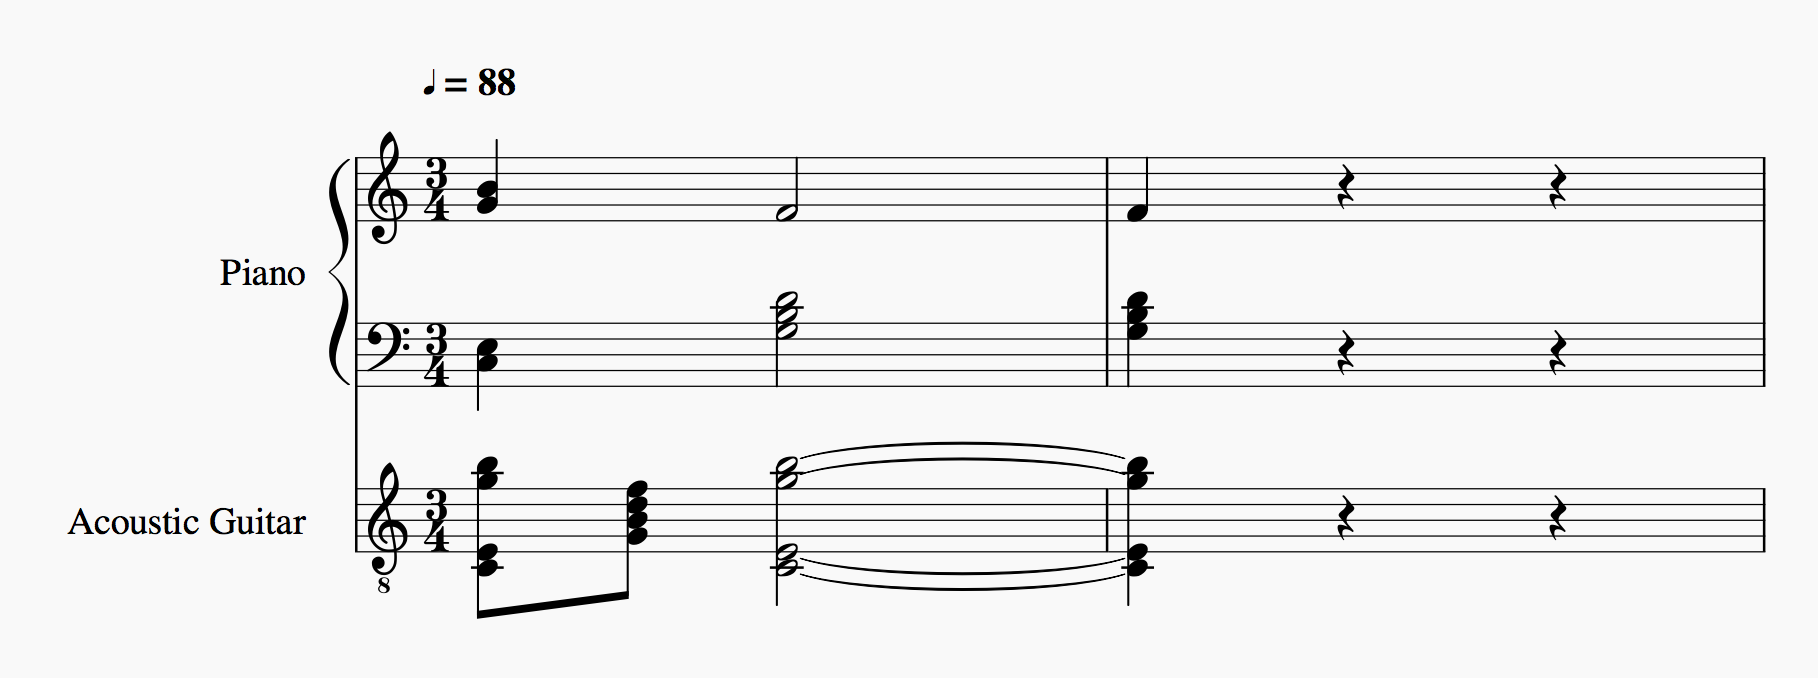
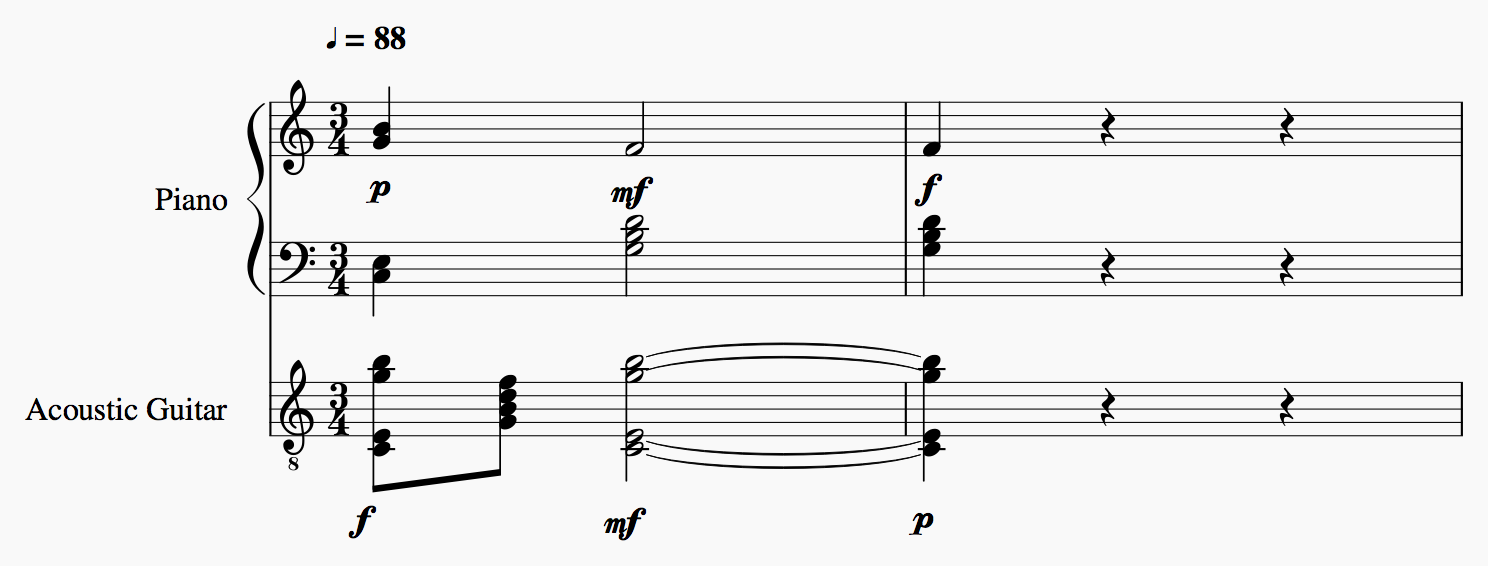
Updated music library

diff --git a/swara-music/src/main/java/com/swara/music/io/MidiSongReader.java b/swara-music/src/main/java/com/swara/music/io/MidiSongReader.java
@@ -5,9 +5,7 @@ import java.util.Arrays;
 import java.util.HashMap;
 import java.util.List;
 import java.util.Map;
-import java.util.Set;
 import java.util.TreeMap;
-import java.util.TreeSet;
 import java.util.function.Predicate;
 import java.util.stream.Collectors;
 import java.util.stream.IntStream;
@@ -104,7 +102,7 @@ public class MidiSongReader implements SongReader {
                 .collect(Collectors.groupingBy(i -> ((ShortMessage) i.getMessage()).getChannel()))
                 .forEach((channel, list) -> {
                     final Phrase.Builder phrase = new Phrase.Builder();
-                    final Set<Note> notes = new TreeSet<>();
+                    final Map<Integer, ShortMessage> notes = new HashMap<>();
 
                     // Group note on and note off events by tick.
                     final TreeMap<Long, List<MidiEvent>> ticks = list.stream().collect(
@@ -112,31 +110,30 @@ public class MidiSongReader implements SongReader {
                     );
 
                     ticks.forEach((tick, group) -> {
+                        // Articulate all notes (if any) in the current chord.
                         final Long last = ticks.lowerKey(tick);
                         final long diff = tick - (last == null ? start : last);
 
                         if (diff > 0) {
-                            // Articulate all notes (if any) in the current chord.
                             phrase.withChord(new Chord.Builder()
                                 .withDuration(new Fraction(diff / (4.0 * sequence.getResolution())))
-                                .withNotes(notes)
-                                .build()
-                            );
+                                .withNotes(notes.values().stream()
+                                    .map(i -> new Note.Builder()
+                                        .withPitch(i.getData1() % 12)
+                                        .withOctave(i.getData1() / 12)
+                                        .build())
+                                    .collect(Collectors.toSet()))
+                                .withVolume((int) notes.values().stream()
+                                    .mapToInt(ShortMessage::getData2)
+                                    .average()
+                                    .orElse(0))
+                                .build());
                         }
 
+                        // Add all new events and remove all old events.
                         for (MidiEvent event : group) {
-                            // Construct a note from a MIDI note event.
                             final ShortMessage msg = (ShortMessage) event.getMessage();
-                            final Note note = new Note.Builder()
-                                .withPitch(msg.getData1() % 12)
-                                .withOctave(msg.getData1() / 12)
-                                .withVolume(msg.getData2())
-                                .build();
-
-                            // If the note does not currently exist, then add it to the active set.
-                            if (!notes.remove(note)) {
-                                notes.add(note);
-                            }
+                            notes.merge(msg.getData1(), msg, (v1, v2) -> null);
                         }
                     });
 

diff --git a/swara-music/src/main/java/com/swara/music/data/Chord.java b/swara-music/src/main/java/com/swara/music/data/Chord.java
@@ -20,10 +20,12 @@ public class Chord {
 
     private final Set<Note> notes;
     private final Fraction duration;
+    private final int volume;
 
     private Chord(Builder builder) {
         this.notes = builder.notes;
         this.duration = builder.duration;
+        this.volume = builder.volume;
     }
 
     /**
@@ -46,6 +48,15 @@ public class Chord {
     }
 
     /**
+     * Returns the volume of the note. Volume is synonymous with MIDI velocity. The volume is
+     * encoded as a number on the interval [0, 128), in which 0 represents silence.
+     */
+    @JsonGetter
+    public int volume() {
+        return this.volume;
+    }
+
+    /**
      * Constructs a {@link Chord} using a Fluent-style builder pattern. By default, the builder will
      * construct a quarter-rest.
      */
@@ -53,10 +64,12 @@ public class Chord {
 
         private Set<Note> notes;
         private Fraction duration;
+        private int volume;
 
         public Builder() {
             this.notes = new HashSet<>();
             this.duration = Fraction.ONE_QUARTER;
+            this.volume = 64;
         }
 
         public Builder withNote(Note note) {
@@ -78,6 +91,13 @@ public class Chord {
             Preconditions.checkNotNull(duration);
             Preconditions.checkArgument(duration.compareTo(Fraction.ZERO) > 0);
             this.duration = duration;
+            return this;
+        }
+
+        public Builder withVolume(int volume) {
+            // The volume must be on the interval [0, 128).
+            Preconditions.checkArgument(volume >= 0 && volume < 128);
+            this.volume = volume;
             return this;
         }
 

diff --git a/swara-music/src/main/java/com/swara/music/data/Note.java b/swara-music/src/main/java/com/swara/music/data/Note.java
@@ -34,12 +34,10 @@ public class Note implements Comparable<Note> {
 
     private final int pitch;
     private final int octave;
-    private final int volume;
 
     private Note(Builder builder) {
         this.pitch = builder.pitch;
         this.octave = builder.octave;
-        this.volume = builder.volume;
     }
 
     /**
@@ -57,15 +55,6 @@ public class Note implements Comparable<Note> {
      */
     @JsonGetter
     public int octave() { return this.octave; }
-
-    /**
-     * Returns the volume of the note. Volume is synonymous with MIDI velocity. The volume is
-     * encoded as a number on the interval [0, 128), in which 0 represents silence.
-     */
-    @JsonGetter
-    public int volume() {
-        return this.volume;
-    }
 
     @Override
     public int compareTo(Note rhs) {
@@ -100,12 +89,10 @@ public class Note implements Comparable<Note> {
 
         private int pitch;
         private int octave;
-        private int volume;
 
         public Builder() {
             this.pitch = Note.C;
             this.octave = 5;
-            this.volume = 64;
         }
 
         public Builder withPitch(int pitch) {
@@ -119,13 +106,6 @@ public class Note implements Comparable<Note> {
             // The octave must be on the interval [0, 11).
             Preconditions.checkArgument(octave >= 0);
             this.octave = octave;
-            return this;
-        }
-
-        public Builder withVolume(int volume) {
-            // The volume must be on the interval [0, 128).
-            Preconditions.checkArgument(volume >= 0 && volume < 128);
-            this.volume = volume;
             return this;
         }
 

diff --git a/swara-music/src/main/java/com/swara/music/io/MidiSongWriter.java b/swara-music/src/main/java/com/swara/music/io/MidiSongWriter.java
@@ -78,7 +78,7 @@ public class MidiSongWriter implements SongWriter {
 
                         // Write the note on event.
                         track.add(new MidiEvent(new ShortMessage(
-                            ShortMessage.NOTE_ON, channel, key, note.volume()
+                            ShortMessage.NOTE_ON, channel, key, chord.volume()
                         ), tick));
 
                         // Write the note off event.

diff --git a/swara-music/README.md b/swara-music/README.md
@@ -31,10 +31,10 @@ final Tempo waltz = new Tempo.Builder()
 
 // C Major 7 Chord.
 final Chord.Builder cmaj7 = new Chord.Builder()
-    .withNote(new Note.Builder().withPitch(Note.C).withOctave(4).withVolume(80).build())
-    .withNote(new Note.Builder().withPitch(Note.E).withOctave(4).withVolume(60).build())
-    .withNote(new Note.Builder().withPitch(Note.G).withOctave(5).withVolume(80).build())
-    .withNote(new Note.Builder().withPitch(Note.B).withOctave(5).withVolume(75).build());
+    .withNote(new Note.Builder().withPitch(Note.C).withOctave(4).build())
+    .withNote(new Note.Builder().withPitch(Note.E).withOctave(4).build())
+    .withNote(new Note.Builder().withPitch(Note.G).withOctave(5).build())
+    .withNote(new Note.Builder().withPitch(Note.B).withOctave(5).build());
 
 // G Major 7 Chord.
 final Chord.Builder gmaj7 = new Chord.Builder()
@@ -45,17 +45,17 @@ final Chord.Builder gmaj7 = new Chord.Builder()
 
 // Piano Phrase.
 final Phrase piano = new Phrase.Builder()
-    .withChord(cmaj7.withDuration(new Fraction(1, 4)).build())
-    .withChord(gmaj7.withDuration(new Fraction(1, 2)).build())
-    .withChord(gmaj7.withDuration(new Fraction(1, 4)).build())
+    .withChord(cmaj7.withDuration(new Fraction(1, 4)).withVolume(42).build())
+    .withChord(gmaj7.withDuration(new Fraction(1, 2)).withVolume(64).build())
+    .withChord(gmaj7.withDuration(new Fraction(1, 4)).withVolume(80).build())
     .withProgram(0)
     .build();
 
 // Guitar Phrase.
 final Phrase guitar = new Phrase.Builder()
-    .withChord(cmaj7.withDuration(new Fraction(1, 8)).build())
-    .withChord(gmaj7.withDuration(new Fraction(1, 8)).build())
-    .withChord(cmaj7.withDuration(new Fraction(3, 4)).build())
+    .withChord(cmaj7.withDuration(new Fraction(1, 8)).withVolume(80).build())
+    .withChord(gmaj7.withDuration(new Fraction(1, 8)).withVolume(64).build())
+    .withChord(cmaj7.withDuration(new Fraction(3, 4)).withVolume(42).build())
     .withProgram(25)
     .build();
 
